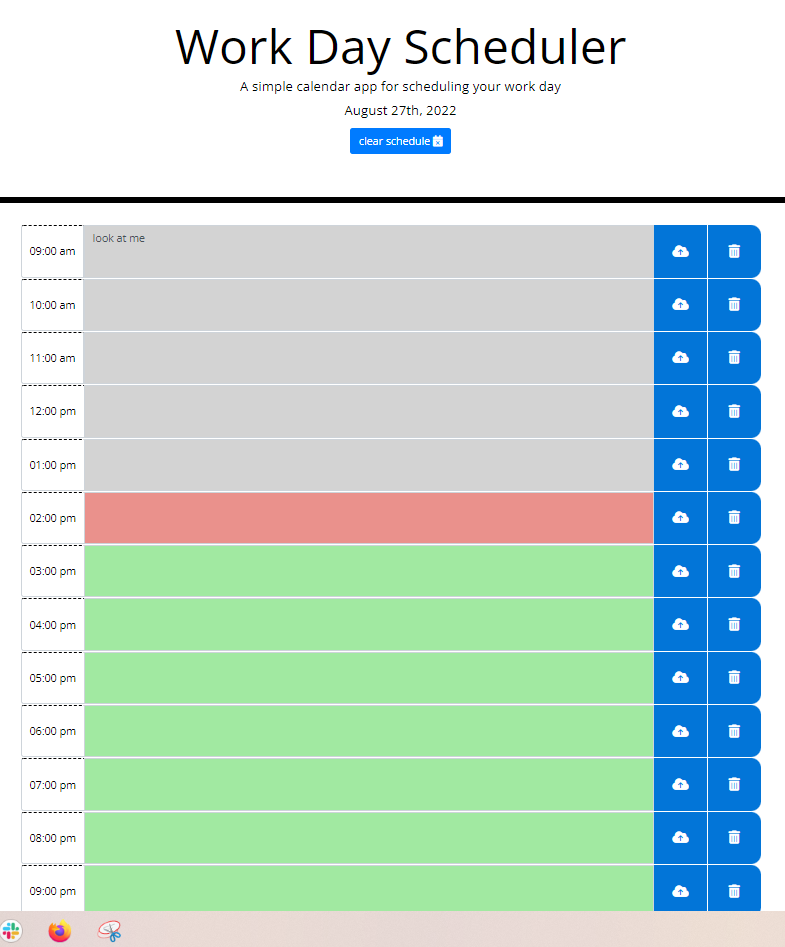
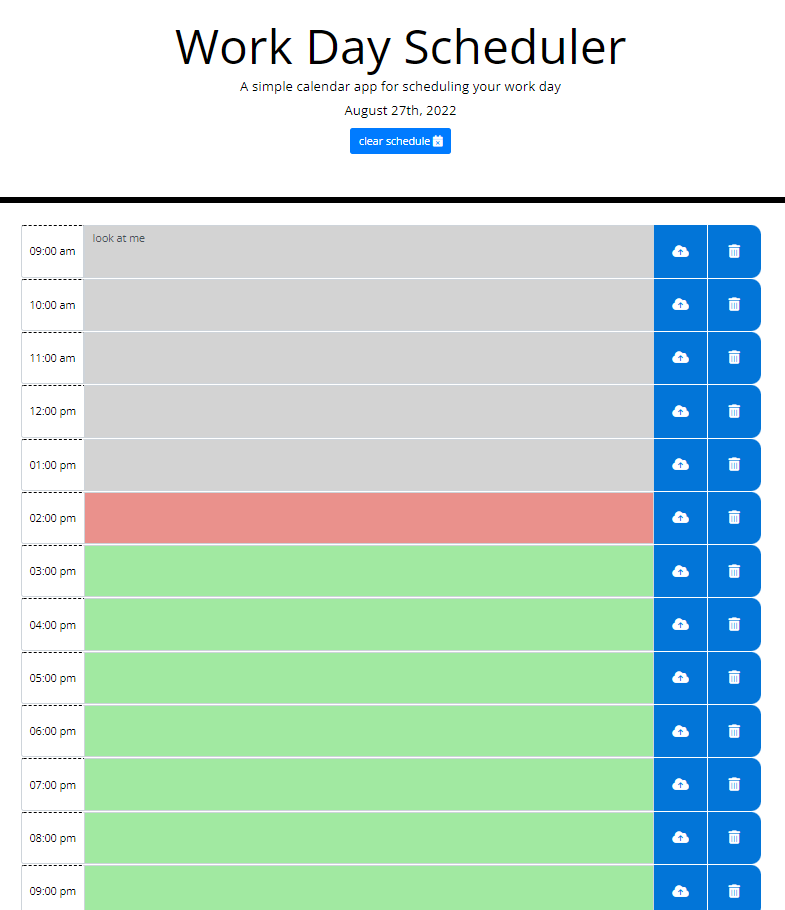
changed location of css

Changed region(s): [[0.0, 0.0308, 1.0, 1.0]]

diff --git a/index.html b/index.html
@@ -12,7 +12,7 @@
       href="https://fonts.googleapis.com/css?family=Open+Sans&display=swap"
       rel="stylesheet"
     />
-    <link rel="stylesheet" href="develop/style.css" />
+    <link rel="stylesheet" href="./Develop/style.css" />
     <title>Work Day Scheduler</title>
   </head>
 

diff --git a/README.md b/README.md
@@ -1,6 +1,8 @@
 # day-scheduler
 
 deployed site: 
+## about
+this simple scheduler utilizes third-party APIs to style the page and access the current time and date
 
 ## technologies used
 html, css, javascript, moment.js, font awesome, and bootstrap
